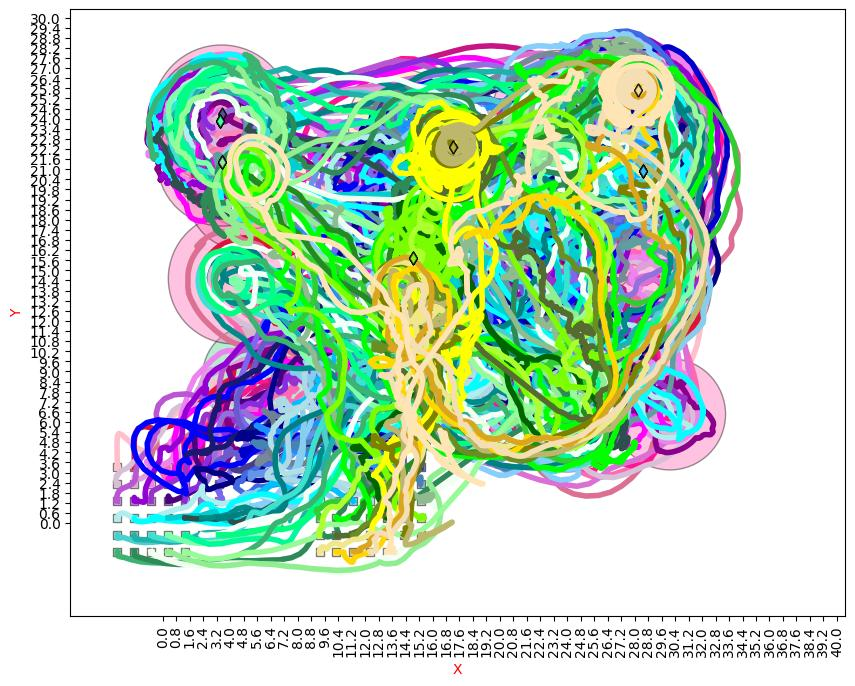
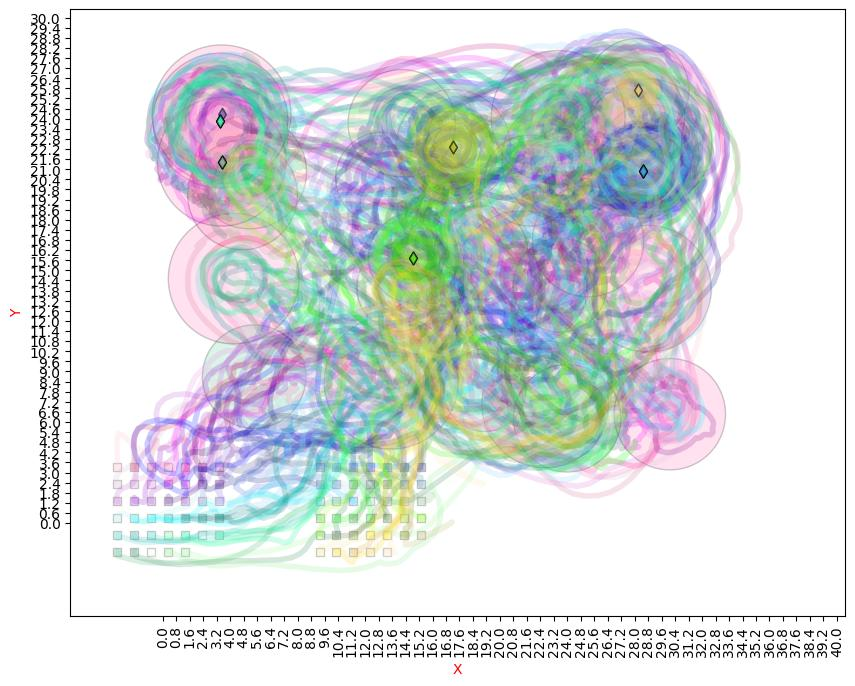
feat: 调整 plot_position_with_tasks 函数中所有元素的透明度为 0.2
## 背景
用户反馈可视化图片中轨迹、任务圆球等元素颜色太深，影响观察效果。

## 改动内容
### 文件变更
- `ob_2d/plot.py`: 修改 plot_position_with_tasks 函数的透明度参数

### 参数变更
| 参数名 | 原值 | 新值 | 原因 |
|-------|------|------|------|
| task_type_colors透明度 | 0.4 | 0.2 | 降低任务圆球颜色强度 |
| 起点 alpha | 0.5 | 0.2 | 降低起点颜色强度 |
| 终点 alpha | 0.5 | 0.2 | 降低终点颜色强度 |
| 轨迹线 alpha | 无 | 0.2 | 新增轨迹线透明度 |

## 输出说明
### 输出路径
- `ob_2d/004/2026-03-02_06-40-04/savefig/trajecotry_with_tasks.jpg`

### 输出内容变化
- 所有元素（任务圆球、起点、终点、轨迹线）透明度统一为 0.2
- 视觉效果更柔和，便于观察

## 验证方法
1. 运行 `cd ob_2d && python pkl_plot.py 2026-03-02_06-40-04 004/2026-03-02_06-40-04/parameters.yaml show_pict`
2. 检查生成的 trajecotry_with_tasks.jpg 图片透明度效果

diff --git a/ob_2d/plot.py b/ob_2d/plot.py
@@ -637,11 +637,11 @@ def plot_position_with_tasks(agent_list, ini_obstacle_list, obstacle_list,
             print(f"警告: 未找到任务数据文件 {task_data_path}，不绘制任务圆球")
             task_list = []
 
-    # 任务类型颜色映射（高透明度）
+    # 任务类型颜色映射（透明度0.2）
     task_type_colors = {
-        'surveillance': (1.0, 0.84, 0.44, 0.4),  # 金色 - 高透明
-        'attack': (1.0, 0.42, 0.71, 0.4),        # 浅红 - 高透明
-        'capture': (0.30, 0.80, 0.55, 0.4),      # 青色 - 高透明
+        'surveillance': (1.0, 0.84, 0.44, 0.2),  # 金色 - 透明度0.2
+        'attack': (1.0, 0.42, 0.71, 0.2),        # 浅红 - 透明度0.2
+        'capture': (0.30, 0.80, 0.55, 0.2),      # 青色 - 透明度0.2
     }
 
     # 创建图形
@@ -670,7 +670,7 @@ def plot_position_with_tasks(agent_list, ini_obstacle_list, obstacle_list,
 
             if task_center and task_radius:
                 # 获取任务颜色
-                task_color = task_type_colors.get(task_type, (0.5, 0.5, 0.5, 0.4))
+                task_color = task_type_colors.get(task_type, (0.5, 0.5, 0.5, 0.2))
 
                 # 绘制任务圆球（高透明度）
                 task_circle = Circle(
@@ -689,22 +689,22 @@ def plot_position_with_tasks(agent_list, ini_obstacle_list, obstacle_list,
         if agent_list[i].type == "Anchor":
             continue
 
-        # 起点（方形，半透明）
+        # 起点（方形，透明度0.2）
         plt.scatter(agent_list[i].position[0][0],
                     agent_list[i].position[0][1],
                     marker='s', s=40, zorder=1, edgecolor='k', color=color[i],
-                    alpha=0.5)
+                    alpha=0.2)
 
-        # 终点（菱形，半透明）
+        # 终点（菱形，透明度0.2）
         plt.scatter(agent_list[i].target[0],
                     agent_list[i].target[1],
                     marker='d', s=40, zorder=3, edgecolor='k', color=color[i],
-                    alpha=0.5)
+                    alpha=0.2)
 
-        # 轨迹线
+        # 轨迹线（透明度0.2）
         plt.plot(agent_list[i].position[:, 0],
                 agent_list[i].position[:, 1],
-                zorder=2, c=color[i], linewidth=4)
+                zorder=2, c=color[i], linewidth=4, alpha=0.2)
 
     # 绘制障碍物
     plot_obstacle(ini_obstacle_list)
